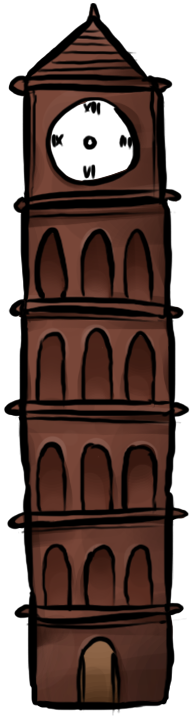
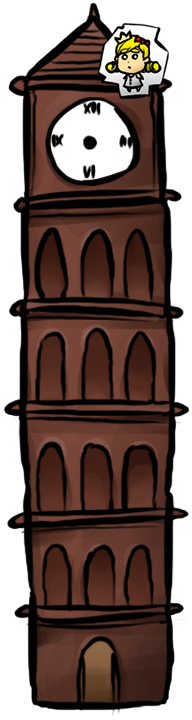
Used random level, updated clockTower, moved hand positions of clockTower, uses random levels

Changed region(s): [[0.5, 0.0306, 0.875, 0.1528], [0.4375, 0.1528, 0.4688, 0.1833]]

diff --git a/testing1.py b/testing1.py
@@ -94,7 +94,7 @@ class App:
             if self.game_load:
                 self.player = self.get_player_actor(240,540,-30)
                 self.actors = [self.player, self.get_wall(0,0, True), self.get_wall(0,0, False), self.get_wall(528,0, False)]
-                self.level_name = 'testing.txt'#self.random_level()
+                self.level_name = self.random_level()
                 print(self.level_name)
                 self.game_counter += 1
                 print(self.game_counter)

diff --git a/clockTower.py b/clockTower.py
@@ -56,5 +56,5 @@ class Hand:
 
     def draw(self):
         #self.surface.blit(self.background, (0,0))
-        self.surface.blit(self.image, (608-38, 93))
-        self.surface.blit(self.hour_image, (608-38, 93))
+        self.surface.blit(self.image, (608-40, 93))
+        self.surface.blit(self.hour_image, (608-42, 93))
